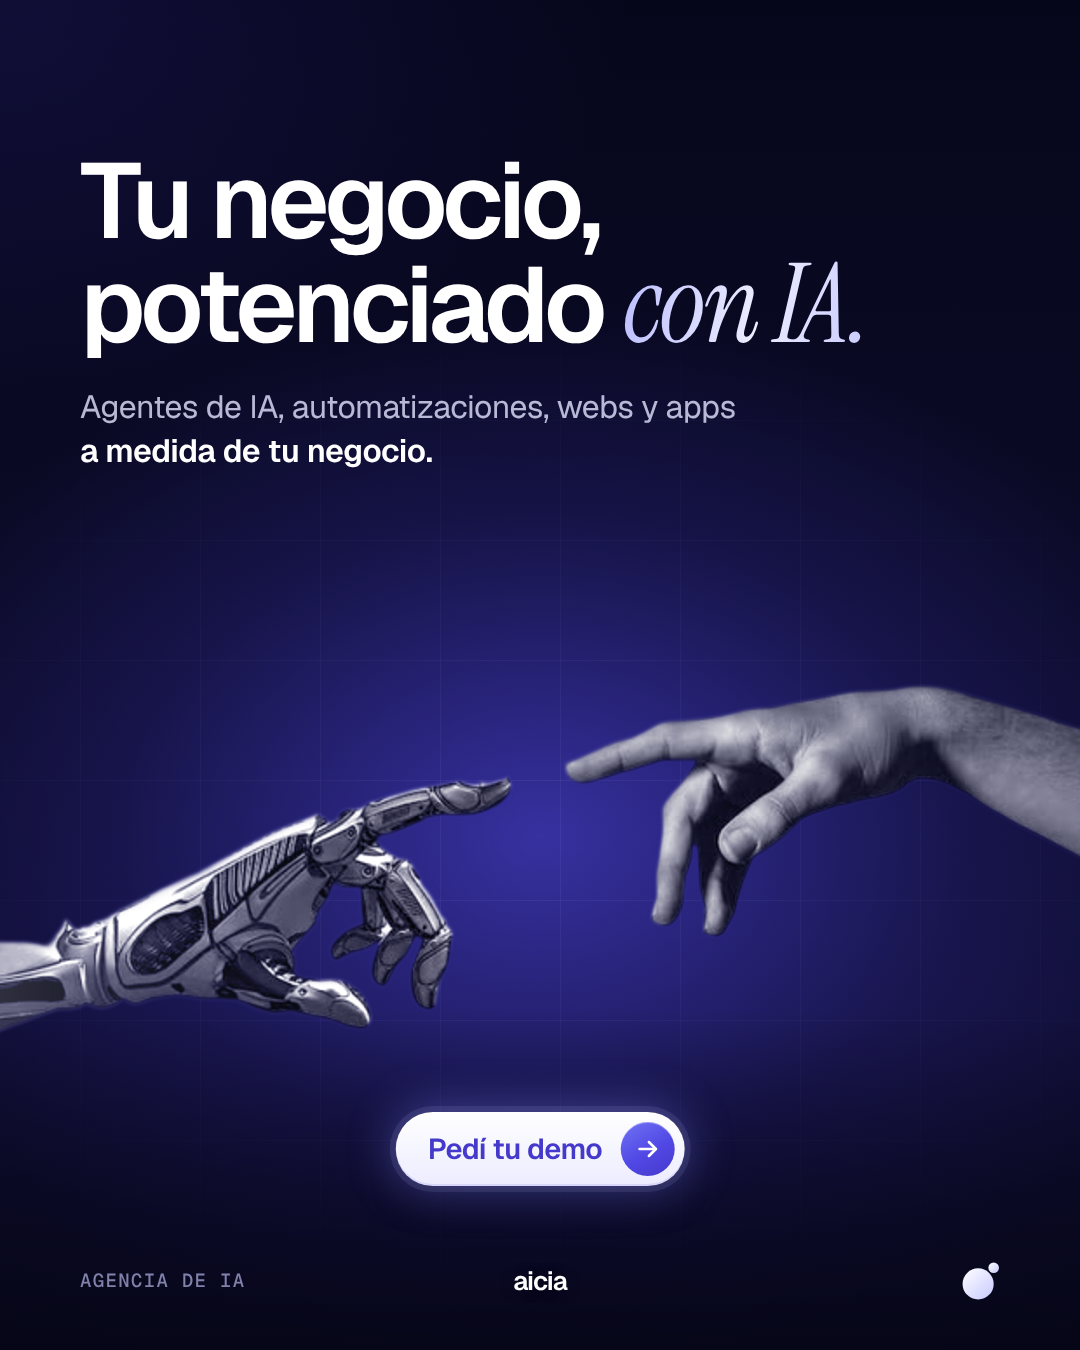
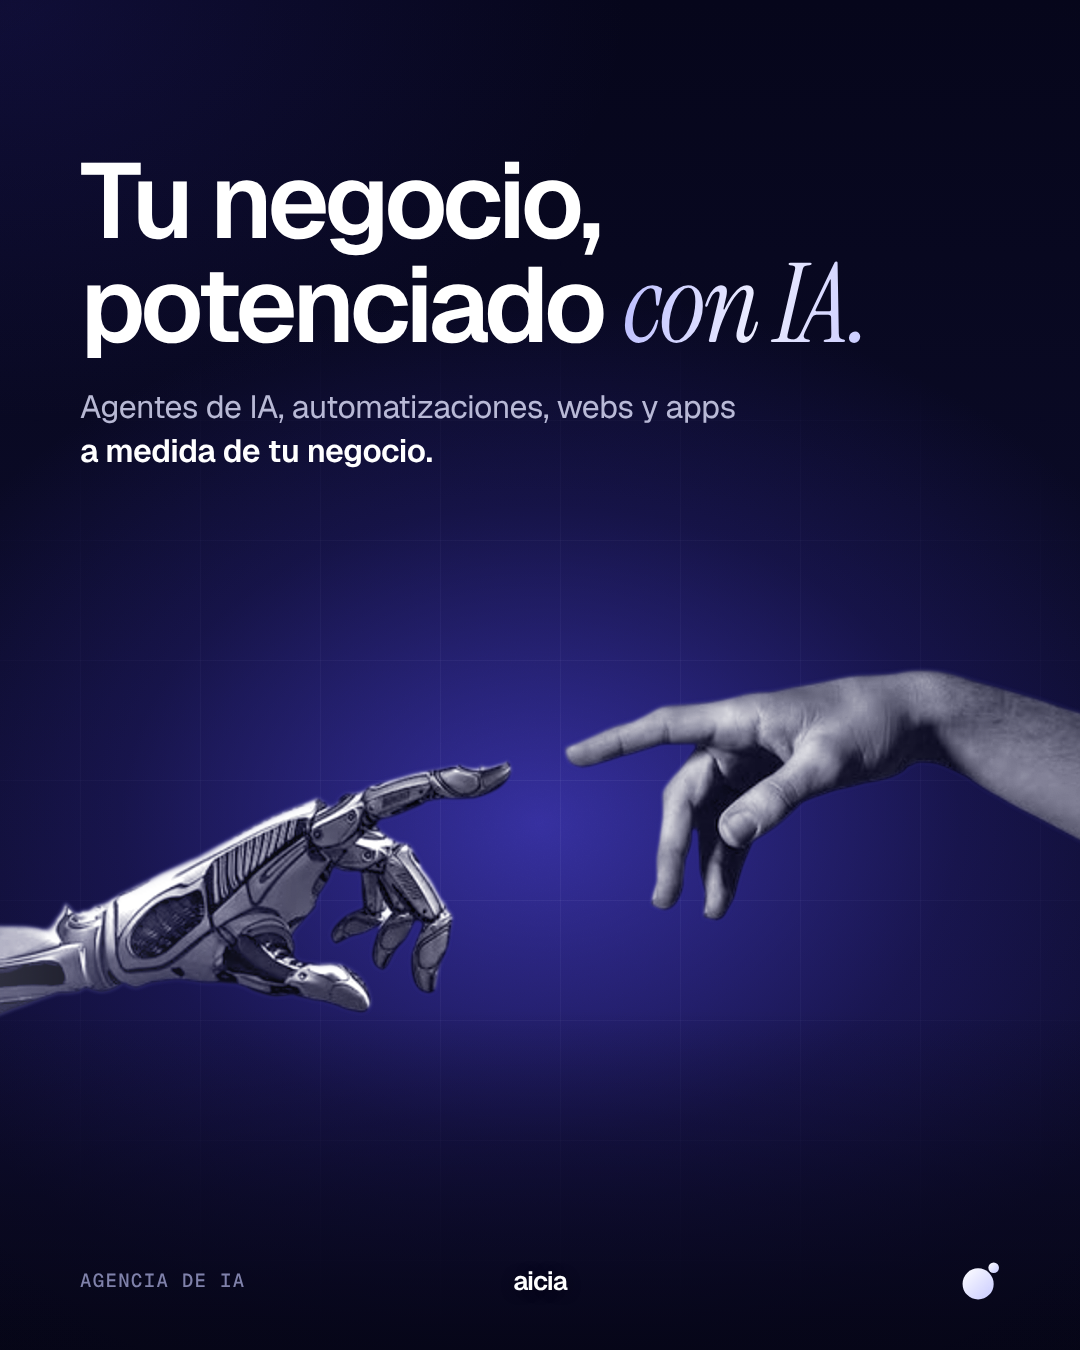
Publicaciones azules: sin el botón "Pedí tu demo" en la segunda
Claude-Session: https://claude.ai/code/session_01SBSshHAET78NiDLxszLW9R

Changed region(s): [[0.0, 0.56, 0.4889, 0.7778], [0.5194, 0.4978, 1.0, 0.7156], [0.3361, 0.8089, 0.6417, 0.9022]]

diff --git a/historias/publicaciones/publicaciones.html b/historias/publicaciones/publicaciones.html
@@ -162,13 +162,12 @@ body{display:flex;flex-direction:column;align-items:center;gap:80px;padding:80px
   <div class="basefade"></div><div class="vignette"></div><div class="grain"></div>
 </section>
 
-<!-- 2 azul · La solución (el único con botón, como el cierre de la destacada) -->
-<section class="post dark" data-file="aicia-post-02-potenciado-azul.png" style="--gx:50%;--gy:62%;--gw:1000px;--gh:760px;--mw:980px;--mh:760px">
+<!-- 2 azul · La solución -->
+<section class="post dark" data-file="aicia-post-02-potenciado-azul.png" style="--gx:50%;--gy:61%;--gw:1000px;--gh:760px;--mw:980px;--mh:760px">
   <div class="stage"></div><div class="grid"></div>
-  <div class="subj bw" data-rim="left" style="left:-108px;top:440px;width:1280px;--tint:.16;--rim:.38"><img src="assets/manos-ia.png" alt=""></div>
+  <div class="subj bw" data-rim="left" style="left:-108px;top:424px;width:1280px;--tint:.16;--rim:.38"><img src="assets/manos-ia.png" alt=""></div>
   <h1 class="title tx">Tu negocio,<br>potenciado <span class="serif">con IA.</span></h1>
   <p class="lede tx">Agentes de IA, automatizaciones, webs y apps<br><b>a medida de tu negocio.</b></p>
-  <div class="pill cta">Pedí tu demo<svg><use href="#g-arrow"/></svg></div>
   <div class="tag">Agencia de IA</div><div class="sig">aicia</div><svg class="mark" aria-label="Aicia"><use href="#logo-w"/></svg>
   <div class="basefade"></div><div class="vignette"></div><div class="grain"></div>
 </section>

diff --git a/CLAUDE.md b/CLAUDE.md
@@ -100,11 +100,11 @@ node publicaciones/render.mjs          # 3 publicaciones 1080×1350 + vista prev
   - Arriba, el título en blanco con una frase en serif lavanda y una bajada corta. **Sin etiqueta arriba**: Guille sacó "El problema…", "La solución" y "El resultado".
   - Abajo, la foto grande con tinte índigo y luz de borde, fundida en el oscurecido (`.basefade`).
   - El bloque de texto mide y se ubica igual en las 3 (`.dark .title/.lede`).
-  - Solo la 2 lleva botón: el blanco con la flecha en un círculo índigo, centrado bajo las manos, como el cierre de la destacada.
+  - **Ninguna lleva botón** (Guille sacó también "Pedí tu demo" de la 2). El estilo `.dark .pill.cta` queda en el CSS por si se necesita.
   - Pie: "AGENCIA DE IA", "aicia" y el logo blanco.
   - Textos:
     1. "No es tu equipo. Es hacer todo *manual.*" (en 3 líneas, con "manual." sola en serif) / "Lo repetitivo se automatiza. **Tu equipo, a lo importante.**"
-    2. "Tu negocio, potenciado *con IA.*" / "Agentes de IA, automatizaciones, webs y apps **a medida de tu negocio.**", con el botón "Pedí tu demo". Las manos van sin punto ni resplandor entre los dedos.
+    2. "Tu negocio, potenciado *con IA.*" / "Agentes de IA, automatizaciones, webs y apps **a medida de tu negocio.**". Las manos van sin punto ni resplandor entre los dedos.
     3. "Diferenciate de la *competencia.*" / "Mientras todos hacen lo mismo, **vos das el paso.**"
 - La versión clara (sin sufijo) quedó como estaba, con el gris en la primera línea del título y un botón índigo en cada una.
 - `preparar-imagenes.mjs` agranda al doble los recortes de Guille (`*-original.png`) con un enfoque suave, y pasa el peón de azul rey al índigo de Aicia.
